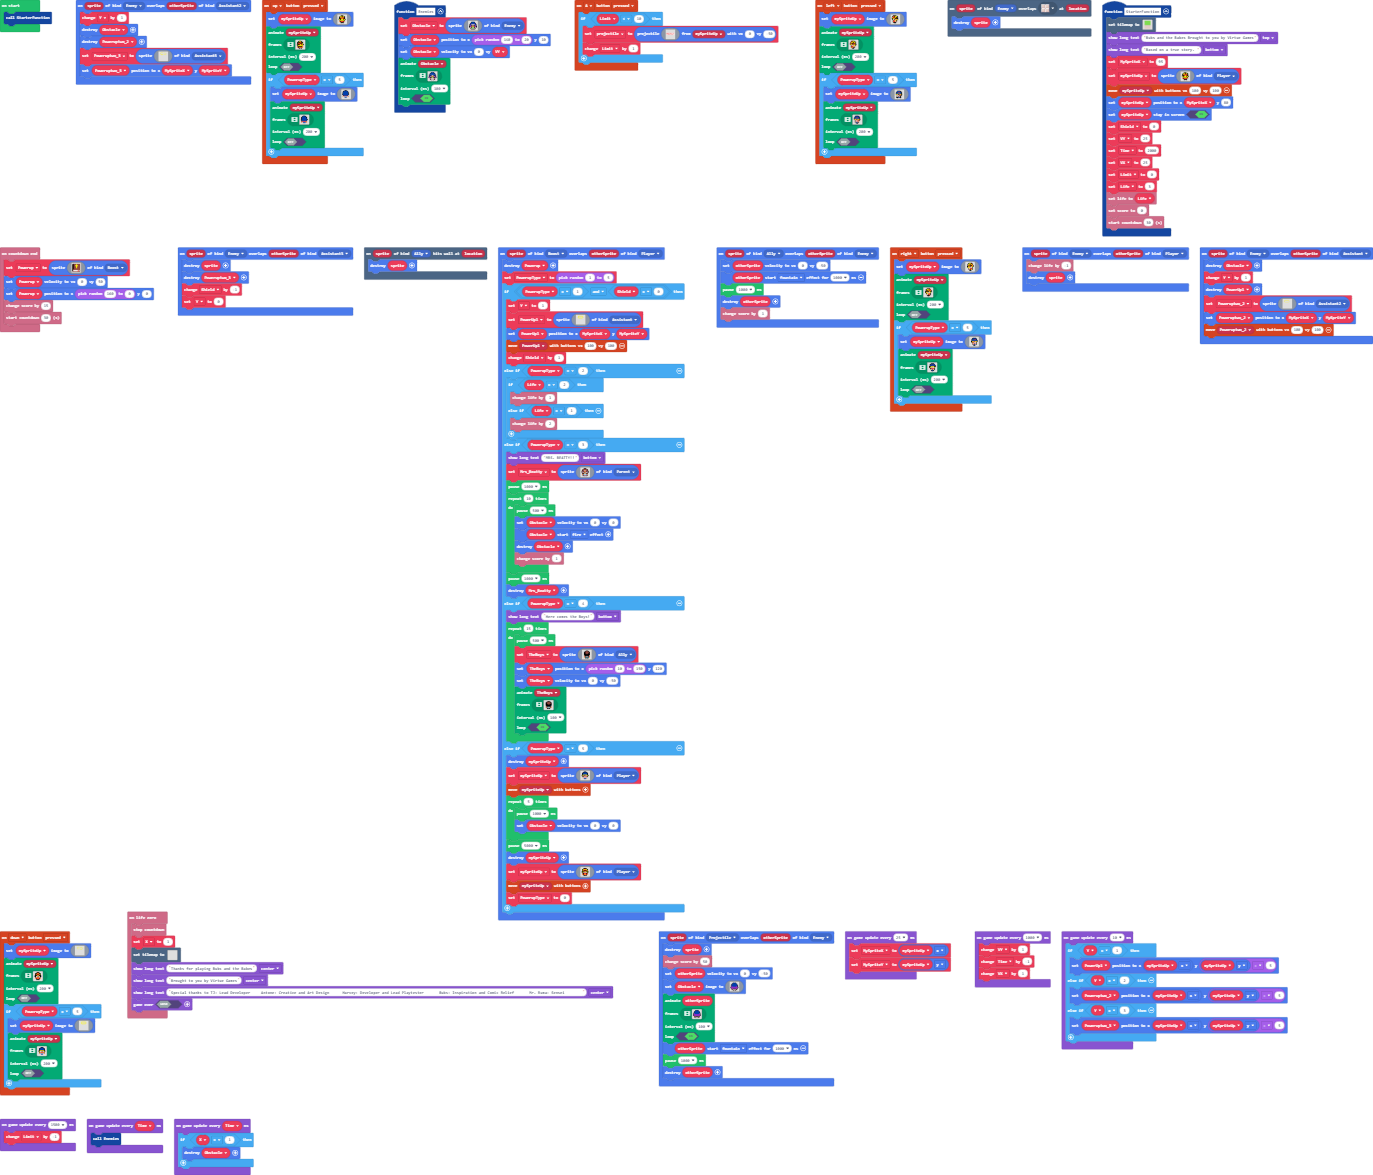
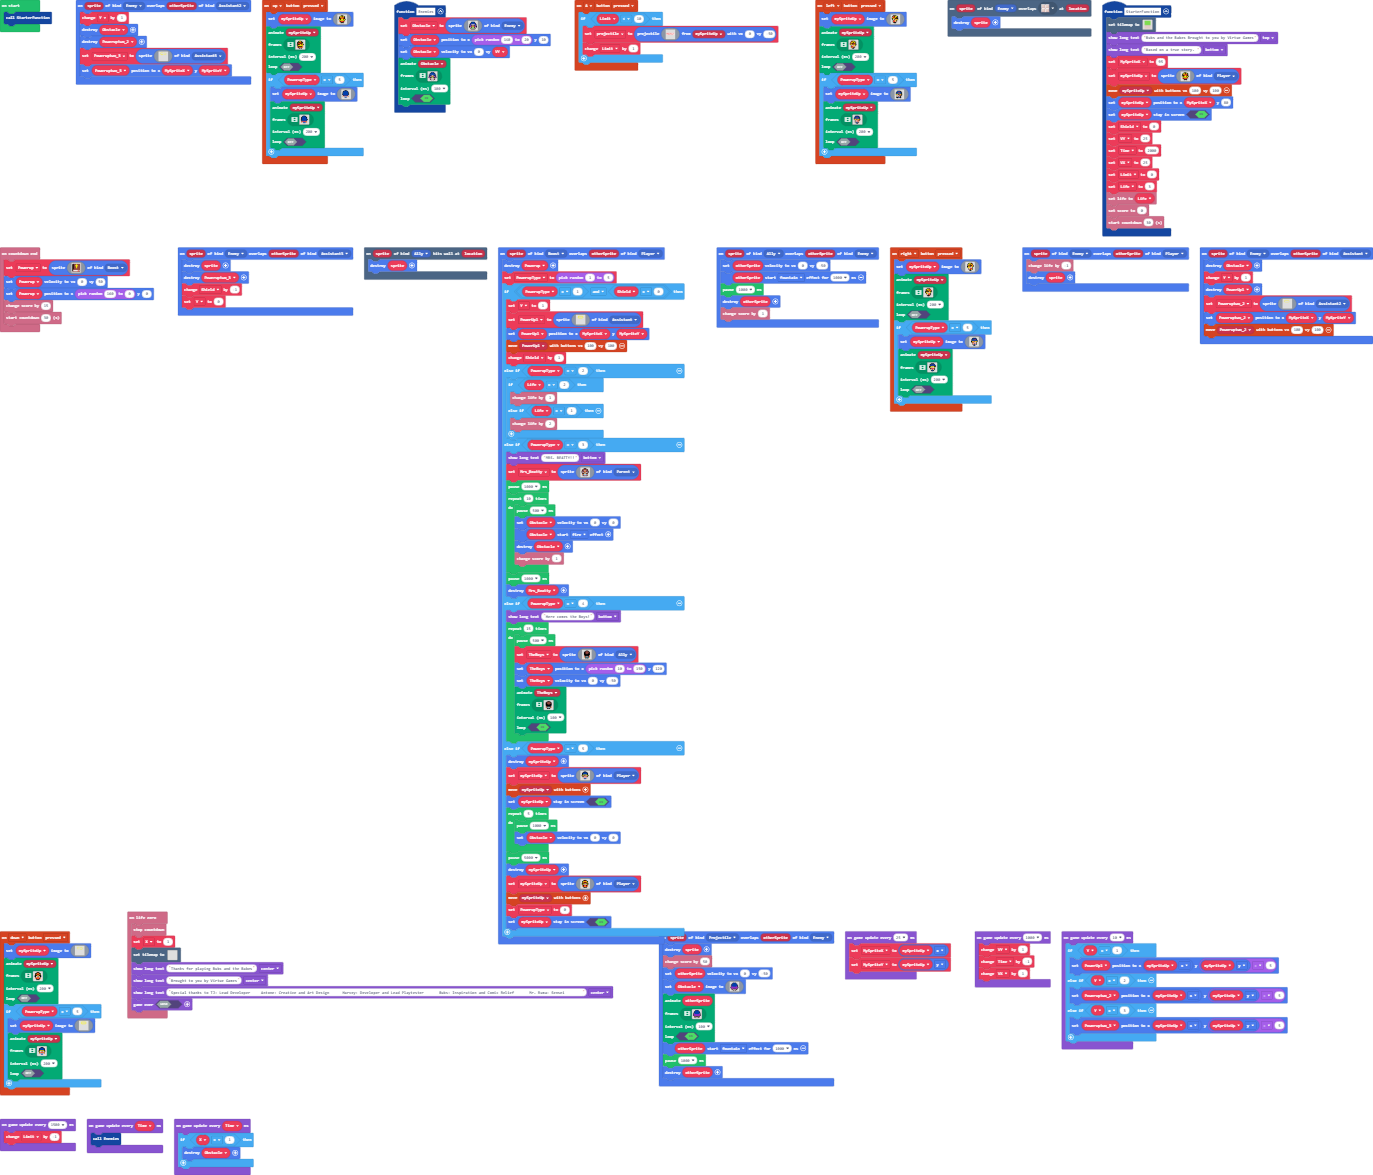
Update main.blocks, main.ts

Changed region(s): [[0.3671, 0.674, 0.52, 0.8272]]

diff --git a/main.ts b/main.ts
@@ -781,6 +781,7 @@ sprites.onOverlap(SpriteKind.Boost, SpriteKind.Player, function (sprite, otherSp
             . . . . . d d . . d d . . . . . 
             `, SpriteKind.Player)
         controller.moveSprite(mySpriteUp)
+        mySpriteUp.setStayInScreen(true)
         for (let index = 0; index < 5; index++) {
             pause(1000)
             Obstacle.setVelocity(0, 0)
@@ -807,6 +808,7 @@ sprites.onOverlap(SpriteKind.Boost, SpriteKind.Player, function (sprite, otherSp
             `, SpriteKind.Player)
         controller.moveSprite(mySpriteUp)
         PowerupType = 0
+        mySpriteUp.setStayInScreen(true)
     }
 })
 sprites.onOverlap(SpriteKind.Ally, SpriteKind.Enemy, function (sprite, otherSprite) {
